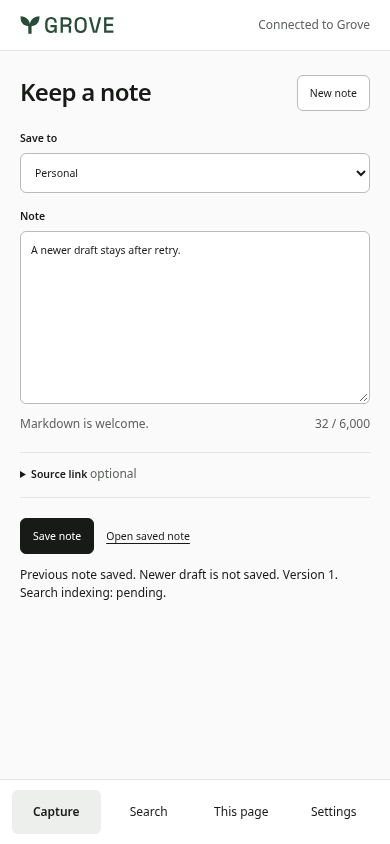
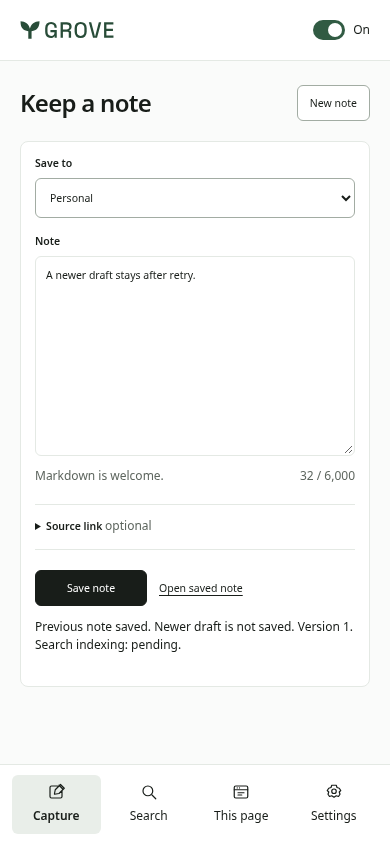
docs(extension): record polished panel and local native acceptance

diff --git a/documentation/design/screenshots/browser-extension/README.md b/documentation/design/screenshots/browser-extension/README.md
@@ -1,13 +1,19 @@
-# Browser extension evidence — 5 November 2026
+# Browser extension evidence — 6 November 2026
 
-Runtime/build source: `f43240253fe9dfd8aa94bd71e263236e8144e279`, product
+Runtime/build source: `b7e06cff`, product
 version `1.11.14`. Images come from the actual installed unsigned packages,
-not a marketing mock or the website. All identities, note text, tokens and HTTP
-responses are synthetic fixtures; no real account/provider grant is demonstrated.
+not a marketing mock or the website. The panel captures use synthetic notes and
+HTTP/auth responses. The Firefox native capture uses a labelled local OAuth issuer
+and the real Grove API, disposable PostgreSQL and worker. Neither is live Clerk
+qualification or a production account/provider grant.
 
-| Capture and safe retry                                                                                  | Search and literal source text                                                                    | Settings                                                                            |
-| ------------------------------------------------------------------------------------------------------- | ------------------------------------------------------------------------------------------------- | ----------------------------------------------------------------------------------- |
-| ![Capture preserves the newer unsaved draft after confirming the original save](chrome-capture-390.png) | ![Selected search result displays script markup as literal text, never HTML](edge-search-390.png) | ![Connection, recovery and session-storage privacy settings](edge-settings-390.png) |
+| Capture and safe retry                                                                                  | Search and literal source text                                                                    | Organized Settings                                                      | Off, dark appearance                                                             |
+| ------------------------------------------------------------------------------------------------------- | ------------------------------------------------------------------------------------------------- | ----------------------------------------------------------------------- | -------------------------------------------------------------------------------- |
+| ![Capture preserves the newer unsaved draft after confirming the original save](chrome-capture-390.png) | ![Selected search result displays script markup as literal text, never HTML](edge-search-390.png) | ![Browser preferences and scoped account access](edge-settings-390.png) | ![Persistent device pause with an accessible on switch](chrome-off-dark-390.png) |
+
+| Dark Settings                                                                       | Native Firefox beside a local source                                                              |
+| ----------------------------------------------------------------------------------- | ------------------------------------------------------------------------------------------------- |
+| ![Appearance changes leave Grove off and access paused](edge-settings-dark-390.png) | ![Firefox's native Grove sidebar beside the labelled local test source](firefox-native-local.png) |
 
 ## Reproduce
 
@@ -28,15 +34,22 @@ sidebar through a real WebDriver gesture and checks capture/search/context.
 
 ## Observations and limits
 
-- Screenshots use 390 × 844 CSS-pixel viewports; Settings is a full-page capture of
-  a scrollable view. The bottom navigation remains fixed; sign-out is reached by
-  scrolling and is exercised in the test. No image is evidence of an entire desktop
-  browser's toolbar or of mobile extension support.
-- Installed-package checks also cover 320/390/768px overflow and axe, literal
+- Panel screenshots use 390 × 844 CSS-pixel viewports. The header and navigation
+  stay outside the independently scrolling content area; Settings continues below
+  the visible Browser/access groups. Tests scroll to Sign out at 280/320/390/768px
+  in a 600px-tall window and check that it is above, not behind, navigation.
+  Firefox's native screenshot is a 1100 × 850 browser-window capture with a narrow
+  sidebar and local source, not evidence of mobile extension support.
+- Installed-package checks cover 280/320/390/768px overflow and axe, literal
   untrusted source display, loss after commit, exact retry without duplicate notes,
   preservation of a newer draft, reviewed version-bound context, page lookup,
   panel reload and sign-out clearing another mounted panel. The saved receipt
-  explicitly distinguishes the original note from the newer unsaved draft.
+  explicitly distinguishes the original note from the newer unsaved draft. Off
+  removes browser menus, blocks trusted RPC, retains unknown-save receipts and
+  makes no requests on panel reload. Cross-panel theme/enablement changes,
+  appearance changes while off, dark Settings, keyboard-toggle focus and safe
+  resume are exercised. Source taste lint has zero failures; its sole shadow
+  warning is the real dialog overlay.
 - Chromium reports the native panel opened. Actual Edge accepts `sidePanel.open`,
   but its visible sidebar/`onOpened` event was not observed in either headless or
   virtual-display execution; that native visual acceptance remains open. Firefox's
@@ -47,9 +60,22 @@ sidebar through a real WebDriver gesture and checks capture/search/context.
   was blocked). This is not silently counted as a passing Chrome-host test. The
   Chromium package/native panel checks pass; branded/manual Chrome acceptance is
   still required before a supported three-browser release.
-- Native provider consent, OAuth callback delivery, refresh/revocation and actual
-  authenticated production fetch are not replaced by seeded session
-  tokens or the separate SDK PKCE/discovery fixture. Production migration `037`,
+- Native local OAuth now passes in Chromium156, actual Edge155 and Firefox159,
+  using HTTPS discovery/DCR/S256, a deliberately short initial token, refresh and
+  real Connections approval without delete permission. Real API capture/database
+  readback, search/context, connection revocation and sign-out pass in all three;
+  Chromium/Edge additionally verify source lookup and a separate durable worker's
+  completed export/download. Pause/reload/theme/resume retains the saved draft in
+  all three. These supplemental harnesses are under
+  `/tmp/opencode/grove-extension-local/`; they contain no live provider credentials
+  and do not ship. The browser's self-signed local TLS warning is expected.
+- The local Firefox run exposed unsupported explicit-port host permission
+  patterns; hostname-only patterns restore actual privileged fetch while CSP and
+  OAuth validation retain exact ports. It does not use wildcard CORS or a fetch
+  stub. The API's native-origin exception admits verified OAuth only, not sessions
+  or API keys; real grant/revocation regression tests pass.
+- Live Clerk consent/callback/refresh/revocation and authenticated production fetch
+  are still not established by the local issuer or seeded fixtures. Production migration `037`,
   compatible deployment, signing, store IDs and store publication remain unperformed.
 - A separate `EXTENSION_PUBLIC_NETWORK=1` installed-package run verified privileged
   read-only API resource metadata and issuer discovery through the exact packaged
@@ -65,11 +91,17 @@ The source citation and exact save receipt are the product-specific elements;
 editing and disclosure, rather than decoration, lead the screen. The repeated
 left/right edges, restrained borders and reserved feedback area keep the narrow
 panel legible. Sparse search results remain honest rather than adding fake notes.
-Settings deliberately scrolls instead of shrinking privacy text or hiding controls.
+Settings groups related controls, keeps technical IDs behind disclosure and
+scrolls inside the browser frame instead of shrinking privacy text or hiding controls.
 
 App-source taste lint reports zero failures; its one shadow warning is the real
 modal overlay, not a resting card. The generic URL inspector cannot install an
 extension or reach its isolated extension origin; installed-host screenshots,
-overflow measurements and axe are used instead. Review: hierarchy 8/10, usability
-7/10, identity 8/10. Remaining work is native/live acceptance, stronger all-host
-recovery/IME qualification and owner review, not a claim of award-level polish.
+overflow measurements and axe are used instead. Final image review: hierarchy 8/10,
+usability 8/10, identity 8/10. The question is “what can I keep or find beside this
+page?”; the composer and source/receipt remain the signature, not decorative data.
+The top issues found and repaired were ungrouped Settings, no visible device state
+and fixed navigation obscuring short-window actions. The same achromatic-ledger
+direction/seed is retained, with no redraw or external imagery. Remaining work is
+native/live acceptance, stronger all-host recovery/IME qualification and owner review,
+not a claim of award-level polish.
